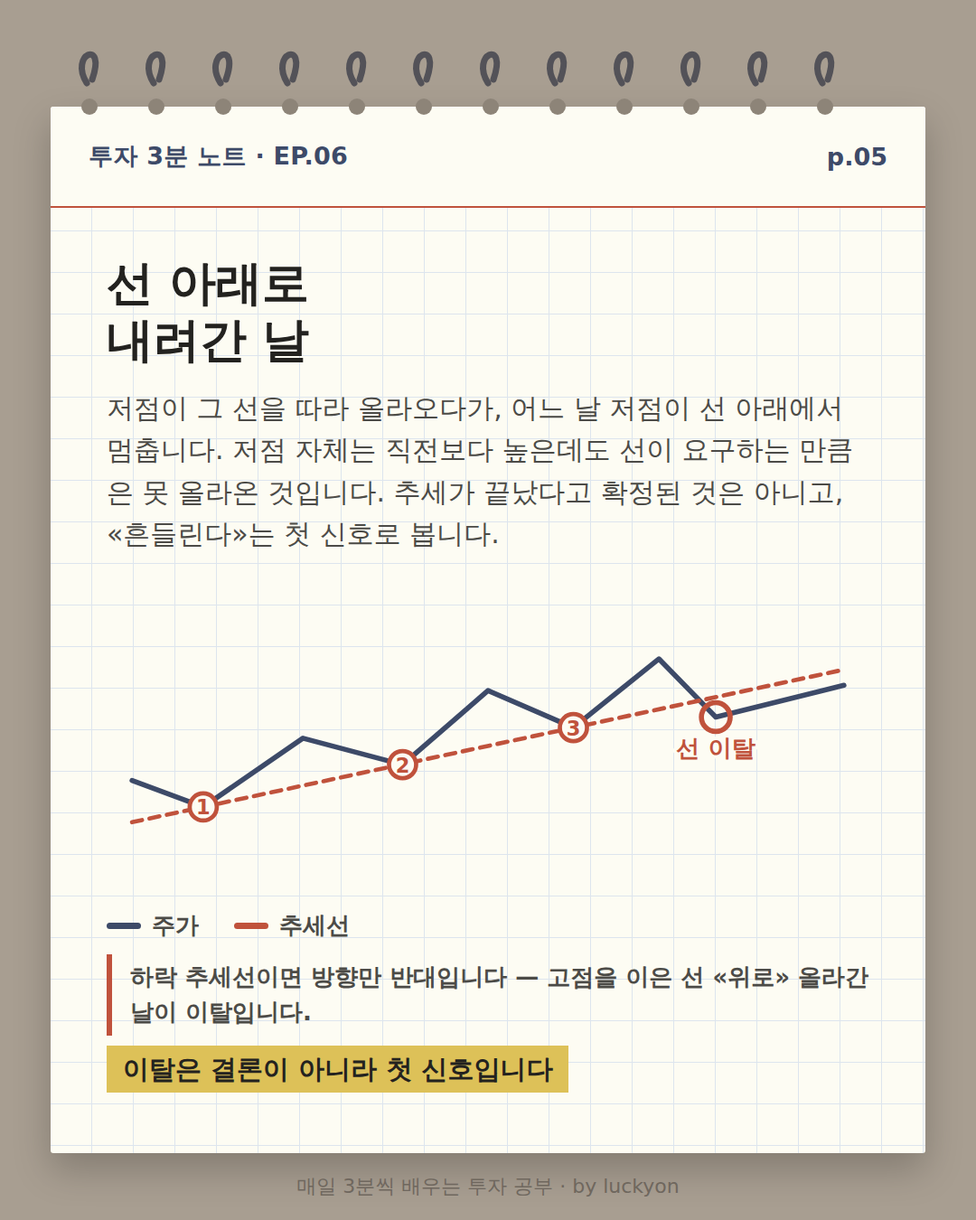
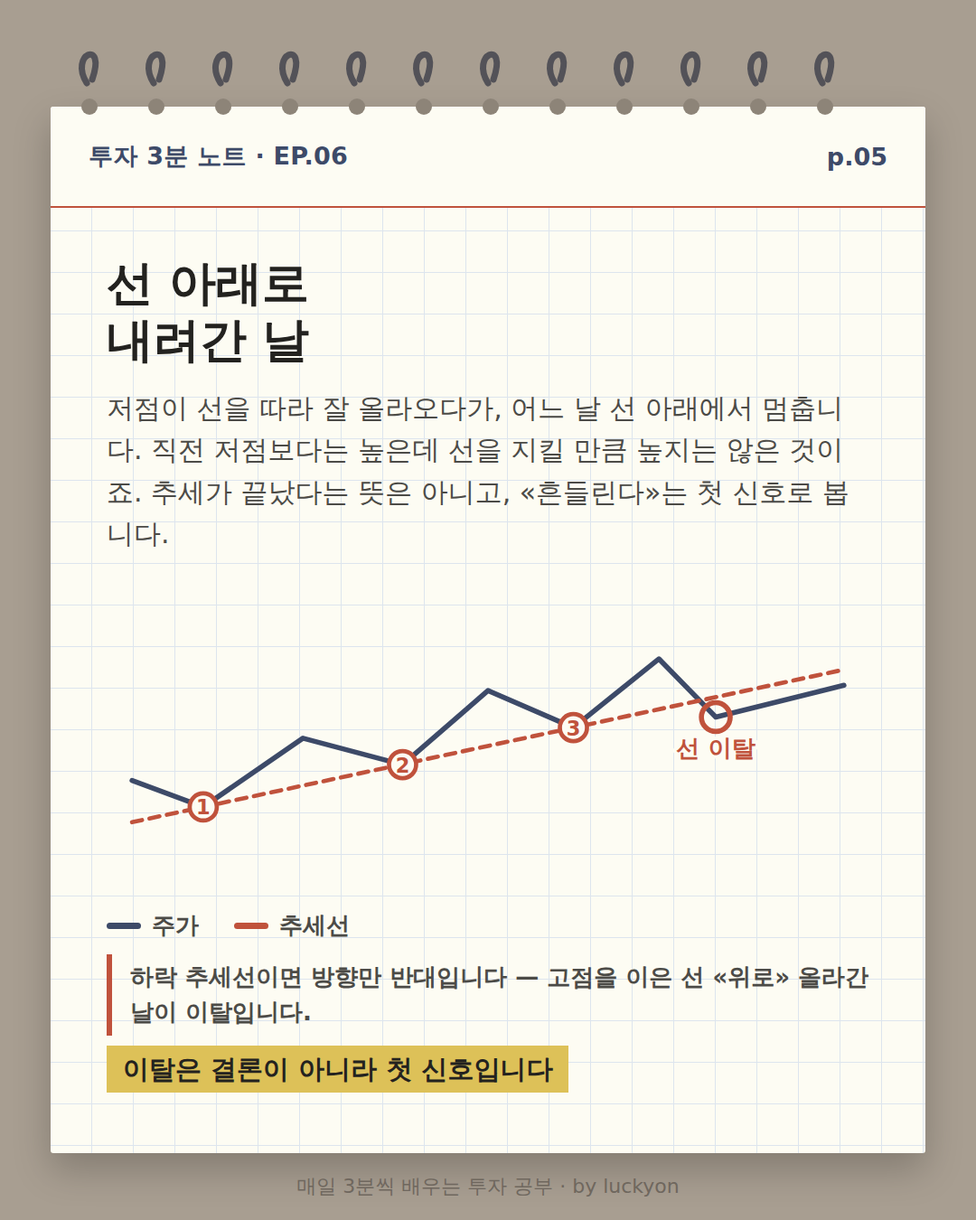
chart-notes: ep06 한국어 원고 전면 정리 — 번역체 걷어내기
사용자 지적 — «한국어가 너무 어색하다. 외국인이 작성한 것 같다.» 맞다.
카드 8장·캡션·대체텍스트 전부를 다섯 패턴 기준으로 다시 썼다.

- 비문: 「세 번째가 «추세»로 만듭니다」(목적어 없음)
  → 「세 번째가 있어야 «추세»입니다」
- 피동: 「저점 두 개면 선은 그어집니다」 → 「저점 두 개를 이으면 선이 됩니다」
- 직역 술어: 「선 하나가 …말해 줍니다」 → 「선 하나로 …봅니다」 /
  「선이 남기는 것은」 → 「그래서 알 수 있는 건」 /
  「선이 요구하는 만큼」 → 「선을 지킬 만큼」 /
  「가격은 그 선을 아래에서 만납니다」 → 「가격이 아래에서 그 선에 부딪힙니다」
- 영어 어순: 「세 번째로 그 선에서 멈추는지 봅니다」
  → 「가격이 세 번째로도 그 자리에서 멈추는지 지켜봅니다」
- 한자어·문어체: 「요구가 클수록 지켜지기 어렵습니다」 → 「바라는 게 클수록…」 /
  「갈리는 것은 …인가 아닌가입니다」 → 「다른 점은 …냐 아니냐입니다」 /
  제목 「가로선과 무엇이 다른가」 → 「가로선과 뭐가 다를까요」

영문은 손대지 않았다(사용자가 영어는 판단 보류). 절차와 교훈은 main 의
3-1-1 및 _knowledge/추세선.md §5 ④ 에 남겼다.

Claude-Session: https://claude.ai/code/session_01DwdXeftpno199BA7Z1hCtm

Changed region(s): [[0.0917, 0.3111, 0.8861, 0.4667]]

diff --git a/cards/chart-notes/2026-09-06-ep06/preview.html b/cards/chart-notes/2026-09-06-ep06/preview.html
@@ -62,39 +62,39 @@
     <h2>🇰🇷 한국어 — 8장</h2>
     <div class="cards">
     <figure>
-      <img src="ko/card1.png" alt="표지. 크림색 모눈 노트 위에 캔들 여덟 개가 왼쪽 아래에서 오른쪽 위로 계단처럼 올라간다. 그 캔들들의 아래꼬리 끝을 따라 붉은 점선 하나가 비스듬히 그어져 있고, 여러 캔들의 저가가 그 선에 닿아 있다. 점선의 오른쪽 끝을 가리키며 '저점이 점점 올라왔다 — 그 자리를 이은 선'이라는 주석이 붙어 있다. 큰 제목 '기울어진 선 하나가 «움직이는 속도»를 말해 줍니다', 부제 'EP.06 · 추세선', 노란 형광펜 칩 '저장하고 넘겨보세요'." loading="lazy">
-      <figcaption><b>p.01</b> 표지. 크림색 모눈 노트 위에 캔들 여덟 개가 왼쪽 아래에서 오른쪽 위로 계단처럼 올라간다. 그 캔들들의 아래꼬리 끝을 따라 붉은 점선 하나가 비스듬히 그어져 있고, 여러 캔들의 저가가 그 선에 닿아 있다. 점선의 오른쪽 끝을 가리키며 '저점이 점점 올라왔다 — 그 자리를 이은 선'이라는 주석이 붙어 있다. 큰 제목 '기울어진 선 하나가 «움직이는 속도»를 말해 줍니다', 부제 'EP.06 · 추세선', 노란 형광펜 칩 '저장하고 넘겨보세요'.</figcaption>
+      <img src="ko/card1.png" alt="표지. 크림색 모눈 노트 위에 캔들 여덟 개가 왼쪽 아래에서 오른쪽 위로 계단처럼 올라간다. 그 캔들들의 아래꼬리 끝을 따라 붉은 점선 하나가 비스듬히 그어져 있고, 여러 캔들의 저가가 그 선에 닿아 있다. 점선의 오른쪽 끝을 가리키며 '저점이 점점 올라왔다 — 그 자리를 이은 선'이라는 주석이 붙어 있다. 큰 제목 '기울어진 선 하나로 방향만이 아니라 «속도»까지 봅니다', 부제 'EP.06 · 추세선', 노란 형광펜 칩 '저장하고 넘겨보세요'." loading="lazy">
+      <figcaption><b>p.01</b> 표지. 크림색 모눈 노트 위에 캔들 여덟 개가 왼쪽 아래에서 오른쪽 위로 계단처럼 올라간다. 그 캔들들의 아래꼬리 끝을 따라 붉은 점선 하나가 비스듬히 그어져 있고, 여러 캔들의 저가가 그 선에 닿아 있다. 점선의 오른쪽 끝을 가리키며 '저점이 점점 올라왔다 — 그 자리를 이은 선'이라는 주석이 붙어 있다. 큰 제목 '기울어진 선 하나로 방향만이 아니라 «속도»까지 봅니다', 부제 'EP.06 · 추세선', 노란 형광펜 칩 '저장하고 넘겨보세요'.</figcaption>
     </figure>
     <figure>
       <img src="ko/card2.png" alt="도입 카드. 제목 '차트에 비스듬한 선, 어떻게 그은 걸까요?' 아래에 '가로선은 높이가 하나뿐이라 찾기 쉽지만 이 선은 닿는 자리마다 값이 다르다'는 본문이 있다. 그림은 회색 꺾은선이 왼쪽 아래에서 오른쪽 위로 오르내리며 올라가고, 그 저점들을 따라 붉은 점선 한 줄이 비스듬히 가로지른다. 점선이 끝나는 오른쪽 바깥에 붉은 물음표 세 개가 찍혀 «이 선이 어떻게 그어진 것이냐»고 묻는다. 맨 아래 '이번 편은 그 기울기가 무엇을 뜻하는지 봅니다'." loading="lazy">
       <figcaption><b>p.02</b> 도입 카드. 제목 '차트에 비스듬한 선, 어떻게 그은 걸까요?' 아래에 '가로선은 높이가 하나뿐이라 찾기 쉽지만 이 선은 닿는 자리마다 값이 다르다'는 본문이 있다. 그림은 회색 꺾은선이 왼쪽 아래에서 오른쪽 위로 오르내리며 올라가고, 그 저점들을 따라 붉은 점선 한 줄이 비스듬히 가로지른다. 점선이 끝나는 오른쪽 바깥에 붉은 물음표 세 개가 찍혀 «이 선이 어떻게 그어진 것이냐»고 묻는다. 맨 아래 '이번 편은 그 기울기가 무엇을 뜻하는지 봅니다'.</figcaption>
     </figure>
     <figure>
-      <img src="ko/card3.png" alt="원리 카드. 감청색 꺾은선이 오르내리며 오른쪽 위로 올라가고, 그 저점 세 개를 지나는 붉은 점선이 왼쪽 아래에서 오른쪽 위로 비스듬히 그어져 있다. 선이 그 점선에 닿은 자리마다 붉은 동그라미 안에 번호가 매겨져 있다 — 왼쪽부터 ①②③. 본문은 되돌아선 저점 중 점점 높아지는 두 개를 골라 잇고, 그 선을 오른쪽으로 늘려 세 번째로 그 선에서 멈추는지 본다고 설명한다. 아래 범례에 감청색 '주가'와 붉은색 '추세선'. 그 아래 붉은 세로줄이 그어진 문단에 '거꾸로도 똑같습니다. 점점 «낮아지는» 고점 두 개를 이으면 하락 추세선이 되고, 가격은 그 선을 아래에서 만납니다. 잇는 자리가 저점에서 고점으로, 오름이 내림으로 바뀔 뿐입니다.' 노란 형광펜 마무리 문구는 '두 점이면 선, 세 번째부터 «추세»입니다'." loading="lazy">
-      <figcaption><b>p.03</b> 원리 카드. 감청색 꺾은선이 오르내리며 오른쪽 위로 올라가고, 그 저점 세 개를 지나는 붉은 점선이 왼쪽 아래에서 오른쪽 위로 비스듬히 그어져 있다. 선이 그 점선에 닿은 자리마다 붉은 동그라미 안에 번호가 매겨져 있다 — 왼쪽부터 ①②③. 본문은 되돌아선 저점 중 점점 높아지는 두 개를 골라 잇고, 그 선을 오른쪽으로 늘려 세 번째로 그 선에서 멈추는지 본다고 설명한다. 아래 범례에 감청색 '주가'와 붉은색 '추세선'. 그 아래 붉은 세로줄이 그어진 문단에 '거꾸로도 똑같습니다. 점점 «낮아지는» 고점 두 개를 이으면 하락 추세선이 되고, 가격은 그 선을 아래에서 만납니다. 잇는 자리가 저점에서 고점으로, 오름이 내림으로 바뀔 뿐입니다.' 노란 형광펜 마무리 문구는 '두 점이면 선, 세 번째부터 «추세»입니다'.</figcaption>
+      <img src="ko/card3.png" alt="원리 카드. 감청색 꺾은선이 오르내리며 오른쪽 위로 올라가고, 그 저점 세 개를 지나는 붉은 점선이 왼쪽 아래에서 오른쪽 위로 비스듬히 그어져 있다. 선이 그 점선에 닿은 자리마다 붉은 동그라미 안에 번호가 매겨져 있다 — 왼쪽부터 ①②③. 본문은 가격이 방향을 튼 저점 가운데 점점 높아지는 두 개를 골라 잇고, 그 선을 오른쪽으로 늘려 놓은 뒤 가격이 세 번째로도 그 자리에서 멈추는지 지켜본다고 설명한다. 아래 범례에 감청색 '주가'와 붉은색 '추세선'. 그 아래 붉은 세로줄이 그어진 문단에 '거꾸로도 똑같습니다. 점점 «낮아지는» 고점 두 개를 이으면 하락 추세선이 되고, 이때는 가격이 아래에서 그 선에 부딪힙니다. 잇는 자리가 저점에서 고점으로 바뀔 뿐, 방법은 하나입니다.' 노란 형광펜 마무리 문구는 '두 점이면 선, 세 번째부터 «추세»입니다'." loading="lazy">
+      <figcaption><b>p.03</b> 원리 카드. 감청색 꺾은선이 오르내리며 오른쪽 위로 올라가고, 그 저점 세 개를 지나는 붉은 점선이 왼쪽 아래에서 오른쪽 위로 비스듬히 그어져 있다. 선이 그 점선에 닿은 자리마다 붉은 동그라미 안에 번호가 매겨져 있다 — 왼쪽부터 ①②③. 본문은 가격이 방향을 튼 저점 가운데 점점 높아지는 두 개를 골라 잇고, 그 선을 오른쪽으로 늘려 놓은 뒤 가격이 세 번째로도 그 자리에서 멈추는지 지켜본다고 설명한다. 아래 범례에 감청색 '주가'와 붉은색 '추세선'. 그 아래 붉은 세로줄이 그어진 문단에 '거꾸로도 똑같습니다. 점점 «낮아지는» 고점 두 개를 이으면 하락 추세선이 되고, 이때는 가격이 아래에서 그 선에 부딪힙니다. 잇는 자리가 저점에서 고점으로 바뀔 뿐, 방법은 하나입니다.' 노란 형광펜 마무리 문구는 '두 점이면 선, 세 번째부터 «추세»입니다'.</figcaption>
     </figure>
     <figure>
-      <img src="ko/card4.png" alt="비교 카드 '가로선과 무엇이 다른가'. 왼쪽에 감청색으로 칠해진 '추세선 · 기울어진 선', 오른쪽에 회색 '지지선 · 가로선' 머리칸이 있고 아래로 세 줄이 맞대어 있다. '잇는 점들은' — 점점 높아지거나 낮아진다 / 같은 높이다. '그래서 선이 남기는 것은' — 그 점들이 옮겨 가는 «속도» / 멈추는 «높이». '선을 벗어나면' — 지켜 오던 흐름이 깨진 것 / 그 높이가 뚫린 것. 노란 형광펜 마무리 문구는 '같은 차트인데 추세선은 사람마다 다릅니다'." loading="lazy">
-      <figcaption><b>p.04</b> 비교 카드 '가로선과 무엇이 다른가'. 왼쪽에 감청색으로 칠해진 '추세선 · 기울어진 선', 오른쪽에 회색 '지지선 · 가로선' 머리칸이 있고 아래로 세 줄이 맞대어 있다. '잇는 점들은' — 점점 높아지거나 낮아진다 / 같은 높이다. '그래서 선이 남기는 것은' — 그 점들이 옮겨 가는 «속도» / 멈추는 «높이». '선을 벗어나면' — 지켜 오던 흐름이 깨진 것 / 그 높이가 뚫린 것. 노란 형광펜 마무리 문구는 '같은 차트인데 추세선은 사람마다 다릅니다'.</figcaption>
+      <img src="ko/card4.png" alt="비교 카드 '가로선과 뭐가 다를까요'. 왼쪽에 감청색으로 칠해진 '추세선 · 기울어진 선', 오른쪽에 회색 '지지선 · 가로선' 머리칸이 있고 아래로 세 줄이 맞대어 있다. '이을 점들은' — 점점 높아지거나 낮아진다 / 같은 높이다. '그래서 알 수 있는 건' — 점들이 오르내리는 «속도» / 가격이 멈추는 «높이». '선을 벗어나면' — 지켜 오던 흐름이 깨진 것 / 그 높이가 뚫린 것. 노란 형광펜 마무리 문구는 '같은 차트인데 추세선은 사람마다 다릅니다'." loading="lazy">
+      <figcaption><b>p.04</b> 비교 카드 '가로선과 뭐가 다를까요'. 왼쪽에 감청색으로 칠해진 '추세선 · 기울어진 선', 오른쪽에 회색 '지지선 · 가로선' 머리칸이 있고 아래로 세 줄이 맞대어 있다. '이을 점들은' — 점점 높아지거나 낮아진다 / 같은 높이다. '그래서 알 수 있는 건' — 점들이 오르내리는 «속도» / 가격이 멈추는 «높이». '선을 벗어나면' — 지켜 오던 흐름이 깨진 것 / 그 높이가 뚫린 것. 노란 형광펜 마무리 문구는 '같은 차트인데 추세선은 사람마다 다릅니다'.</figcaption>
     </figure>
     <figure>
-      <img src="ko/card5.png" alt="추세 이탈 카드. 감청색 꺾은선이 붉은 점선 추세선을 따라 올라가며 세 번 그 선에서 멈추고, 멈춘 자리마다 붉은 동그라미 ①②③이 붙어 있다. 그러다 오른쪽에서 선이 꺾여 내려오면서 이번에는 점선 «아래»에서 멈추는데, 그 저점은 직전 ③보다는 높은 자리다 — 저점 자체는 올라갔지만 점선이 요구하는 높이에는 못 미친 모양이다. 그 지점에 번호 없는 붉은 동그라미가 있고 그 아래에 '선 이탈' 라벨이 붙어 있다. 이후 선은 점선 아래에 머문 채 오른쪽 위로 이어진다. 본문은 저점 자체는 직전보다 높은데도 선이 요구하는 만큼은 못 올라온 것이며, 추세가 끝났다고 확정된 것은 아니고 «흔들린다»는 첫 신호로 본다고 설명한다. 아래 붉은 세로줄 문단에 '하락 추세선이면 방향만 반대입니다 — 고점을 이은 선 «위로» 올라간 날이 이탈입니다.' 노란 형광펜 마무리 문구는 '이탈은 결론이 아니라 첫 신호입니다'." loading="lazy">
-      <figcaption><b>p.05</b> 추세 이탈 카드. 감청색 꺾은선이 붉은 점선 추세선을 따라 올라가며 세 번 그 선에서 멈추고, 멈춘 자리마다 붉은 동그라미 ①②③이 붙어 있다. 그러다 오른쪽에서 선이 꺾여 내려오면서 이번에는 점선 «아래»에서 멈추는데, 그 저점은 직전 ③보다는 높은 자리다 — 저점 자체는 올라갔지만 점선이 요구하는 높이에는 못 미친 모양이다. 그 지점에 번호 없는 붉은 동그라미가 있고 그 아래에 '선 이탈' 라벨이 붙어 있다. 이후 선은 점선 아래에 머문 채 오른쪽 위로 이어진다. 본문은 저점 자체는 직전보다 높은데도 선이 요구하는 만큼은 못 올라온 것이며, 추세가 끝났다고 확정된 것은 아니고 «흔들린다»는 첫 신호로 본다고 설명한다. 아래 붉은 세로줄 문단에 '하락 추세선이면 방향만 반대입니다 — 고점을 이은 선 «위로» 올라간 날이 이탈입니다.' 노란 형광펜 마무리 문구는 '이탈은 결론이 아니라 첫 신호입니다'.</figcaption>
+      <img src="ko/card5.png" alt="추세 이탈 카드. 감청색 꺾은선이 붉은 점선 추세선을 따라 올라가며 세 번 그 선에서 멈추고, 멈춘 자리마다 붉은 동그라미 ①②③이 붙어 있다. 그러다 오른쪽에서 선이 꺾여 내려오면서 이번에는 점선 «아래»에서 멈추는데, 그 저점은 직전 ③보다는 높은 자리다 — 저점은 올라갔지만 점선을 지킬 만큼은 못 올라온 모양이다. 그 지점에 번호 없는 붉은 동그라미가 있고 그 아래에 '선 이탈' 라벨이 붙어 있다. 이후 선은 점선 아래에 머문 채 오른쪽 위로 이어진다. 본문은 직전 저점보다는 높지만 선을 지킬 만큼 높지는 않았고, 추세가 끝났다는 뜻은 아니며 «흔들린다»는 첫 신호로 본다고 설명한다. 아래 붉은 세로줄 문단에 '하락 추세선이면 방향만 반대입니다 — 고점을 이은 선 «위로» 올라간 날이 이탈입니다.' 노란 형광펜 마무리 문구는 '이탈은 결론이 아니라 첫 신호입니다'." loading="lazy">
+      <figcaption><b>p.05</b> 추세 이탈 카드. 감청색 꺾은선이 붉은 점선 추세선을 따라 올라가며 세 번 그 선에서 멈추고, 멈춘 자리마다 붉은 동그라미 ①②③이 붙어 있다. 그러다 오른쪽에서 선이 꺾여 내려오면서 이번에는 점선 «아래»에서 멈추는데, 그 저점은 직전 ③보다는 높은 자리다 — 저점은 올라갔지만 점선을 지킬 만큼은 못 올라온 모양이다. 그 지점에 번호 없는 붉은 동그라미가 있고 그 아래에 '선 이탈' 라벨이 붙어 있다. 이후 선은 점선 아래에 머문 채 오른쪽 위로 이어진다. 본문은 직전 저점보다는 높지만 선을 지킬 만큼 높지는 않았고, 추세가 끝났다는 뜻은 아니며 «흔들린다»는 첫 신호로 본다고 설명한다. 아래 붉은 세로줄 문단에 '하락 추세선이면 방향만 반대입니다 — 고점을 이은 선 «위로» 올라간 날이 이탈입니다.' 노란 형광펜 마무리 문구는 '이탈은 결론이 아니라 첫 신호입니다'.</figcaption>
     </figure>
     <figure>
       <img src="ko/card6.png" alt="실제 사례 카드. 삼성전자 2026년 7월 30일부터 9월 4일까지 스물여섯 개의 일봉과 그 아래 거래량 막대가 두 칸으로 그려져 있다. 7월 30일 저가에서 시작해 8월 28일까지 오른쪽 위로 올라가는 붉은 점선 추세선이 그어져 있고 그 아래에 '추세선' 라벨이 붙어 있다. 붉은 동그라미 번호가 세 곳에 있다 — ①은 7월 30일 저가 20만 2,000원, ②는 8월 11일 저가 22만 7,500원, ③은 8월 24일 저가 25만 5,000원 자리다. 8월 24일까지는 어느 날의 저가도 점선 아래로 내려가지 않는다. 그 뒤 8월 25·26·27일은 아래꼬리 끝만 점선 아래로 내려갔다가 몸통은 위에서 끝나고, 8월 28일 봉에는 종가 25만 7,000원 자리에 번호 없는 붉은 동그라미와 '종가 이탈' 라벨이 붙어 있다. 점선은 거기서 끝나고, 오른쪽에 남은 8월 31일부터 9월 4일까지 다섯 봉은 더 내려가지 않고 25만~26만원 사이를 옆으로 오간다. x축에는 7/30, 8/3, 8/6, 8/11, 8/14, 8/19, 8/24, 8/28, 9/4 가 찍혀 있다. 마무리 문구 '선은 깨졌지만 값은 떨어지지 않았습니다'." loading="lazy">
       <figcaption><b>p.06</b> 실제 사례 카드. 삼성전자 2026년 7월 30일부터 9월 4일까지 스물여섯 개의 일봉과 그 아래 거래량 막대가 두 칸으로 그려져 있다. 7월 30일 저가에서 시작해 8월 28일까지 오른쪽 위로 올라가는 붉은 점선 추세선이 그어져 있고 그 아래에 '추세선' 라벨이 붙어 있다. 붉은 동그라미 번호가 세 곳에 있다 — ①은 7월 30일 저가 20만 2,000원, ②는 8월 11일 저가 22만 7,500원, ③은 8월 24일 저가 25만 5,000원 자리다. 8월 24일까지는 어느 날의 저가도 점선 아래로 내려가지 않는다. 그 뒤 8월 25·26·27일은 아래꼬리 끝만 점선 아래로 내려갔다가 몸통은 위에서 끝나고, 8월 28일 봉에는 종가 25만 7,000원 자리에 번호 없는 붉은 동그라미와 '종가 이탈' 라벨이 붙어 있다. 점선은 거기서 끝나고, 오른쪽에 남은 8월 31일부터 9월 4일까지 다섯 봉은 더 내려가지 않고 25만~26만원 사이를 옆으로 오간다. x축에는 7/30, 8/3, 8/6, 8/11, 8/14, 8/19, 8/24, 8/28, 9/4 가 찍혀 있다. 마무리 문구 '선은 깨졌지만 값은 떨어지지 않았습니다'.</figcaption>
     </figure>
     <figure>
-      <img src="ko/card7.png" alt="실수 카드. 번호 붙은 세 항목. 1. 선부터 긋고 저점을 고른다 — 그럴듯한 각도를 먼저 정하고 거기 걸리는 저점만 고르면 시장의 기록이 아니라 내가 그린 그림이 된다. 2. 꼬리 하나로 이탈을 판정한다 — 장중에 저가가 잠깐 선 아래를 찍었다가 다시 올라온 날과 종가까지 선 아래에서 끝난 날은 다르다. 3. 가파를수록 좋은 선이라 본다 — 가파른 선은 그 점들이 매번 그만큼 더 움직여야 유지되므로 요구가 클수록 지켜지기 어렵다. 아래 붉은 테두리 상자에 '가장 흔한 오해 — 이탈은 «오르던 흐름이 흔들린다»는 첫 신호이지, 추세가 끝났다거나 이제 내려간다는 확정이 아닙니다. 가격은 다시 추세를 이어 갈 수도, 옆으로 갈 수도, 돌아설 수도 있습니다'." loading="lazy">
-      <figcaption><b>p.07</b> 실수 카드. 번호 붙은 세 항목. 1. 선부터 긋고 저점을 고른다 — 그럴듯한 각도를 먼저 정하고 거기 걸리는 저점만 고르면 시장의 기록이 아니라 내가 그린 그림이 된다. 2. 꼬리 하나로 이탈을 판정한다 — 장중에 저가가 잠깐 선 아래를 찍었다가 다시 올라온 날과 종가까지 선 아래에서 끝난 날은 다르다. 3. 가파를수록 좋은 선이라 본다 — 가파른 선은 그 점들이 매번 그만큼 더 움직여야 유지되므로 요구가 클수록 지켜지기 어렵다. 아래 붉은 테두리 상자에 '가장 흔한 오해 — 이탈은 «오르던 흐름이 흔들린다»는 첫 신호이지, 추세가 끝났다거나 이제 내려간다는 확정이 아닙니다. 가격은 다시 추세를 이어 갈 수도, 옆으로 갈 수도, 돌아설 수도 있습니다'.</figcaption>
+      <img src="ko/card7.png" alt="실수 카드. 번호 붙은 세 항목. 1. 선부터 긋고 저점을 고른다 — 그럴듯한 각도를 먼저 정하고 거기 걸리는 저점만 고르면 시장의 기록이 아니라 내가 그린 그림이 된다. 2. 꼬리 하나로 이탈을 판정한다 — 장중에 저가가 잠깐 선 아래를 찍었다가 다시 올라온 날과 종가까지 선 아래에서 끝난 날은 다르다. 3. 가파를수록 좋은 선이라 본다 — 가파른 선일수록 다음 점이 그만큼 더 움직여 줘야 버티므로, 바라는 게 클수록 지켜지기 어렵다. 아래 붉은 테두리 상자에 '가장 흔한 오해 — 이탈은 «오르던 흐름이 흔들린다»는 첫 신호일 뿐, 추세가 끝났다거나 이제 내려간다는 뜻이 아닙니다. 거기서 가격은 다시 올라갈 수도, 옆으로 갈 수도, 돌아설 수도 있습니다'." loading="lazy">
+      <figcaption><b>p.07</b> 실수 카드. 번호 붙은 세 항목. 1. 선부터 긋고 저점을 고른다 — 그럴듯한 각도를 먼저 정하고 거기 걸리는 저점만 고르면 시장의 기록이 아니라 내가 그린 그림이 된다. 2. 꼬리 하나로 이탈을 판정한다 — 장중에 저가가 잠깐 선 아래를 찍었다가 다시 올라온 날과 종가까지 선 아래에서 끝난 날은 다르다. 3. 가파를수록 좋은 선이라 본다 — 가파른 선일수록 다음 점이 그만큼 더 움직여 줘야 버티므로, 바라는 게 클수록 지켜지기 어렵다. 아래 붉은 테두리 상자에 '가장 흔한 오해 — 이탈은 «오르던 흐름이 흔들린다»는 첫 신호일 뿐, 추세가 끝났다거나 이제 내려간다는 뜻이 아닙니다. 거기서 가격은 다시 올라갈 수도, 옆으로 갈 수도, 돌아설 수도 있습니다'.</figcaption>
     </figure>
     <figure>
-      <img src="ko/card8.png" alt="요약 카드. 체크박스 세 줄: 점 두 개면 그어지고, 세 번째가 «추세»로 만듭니다 / 기울기는 그 점들이 옮겨 가는 «속도»입니다 / 이탈은 결론이 아니라 첫 신호입니다. 노란 형광펜 칩 두 개로 저장 유도와 해시태그, 그 아래 '다음 편 ▶ 갭 상승·갭 하락', 맨 아래에 교육 목적 고지." loading="lazy">
-      <figcaption><b>p.08</b> 요약 카드. 체크박스 세 줄: 점 두 개면 그어지고, 세 번째가 «추세»로 만듭니다 / 기울기는 그 점들이 옮겨 가는 «속도»입니다 / 이탈은 결론이 아니라 첫 신호입니다. 노란 형광펜 칩 두 개로 저장 유도와 해시태그, 그 아래 '다음 편 ▶ 갭 상승·갭 하락', 맨 아래에 교육 목적 고지.</figcaption>
+      <img src="ko/card8.png" alt="요약 카드. 체크박스 세 줄: 점 두 개면 선이고, 세 번째가 있어야 «추세»입니다 / 기울기가 곧 그 점들이 오르내리는 «속도»입니다 / 이탈은 결론이 아니라 첫 신호입니다. 노란 형광펜 칩 두 개로 저장 유도와 해시태그, 그 아래 '다음 편 ▶ 갭 상승·갭 하락', 맨 아래에 교육 목적 고지." loading="lazy">
+      <figcaption><b>p.08</b> 요약 카드. 체크박스 세 줄: 점 두 개면 선이고, 세 번째가 있어야 «추세»입니다 / 기울기가 곧 그 점들이 오르내리는 «속도»입니다 / 이탈은 결론이 아니라 첫 신호입니다. 노란 형광펜 칩 두 개로 저장 유도와 해시태그, 그 아래 '다음 편 ▶ 갭 상승·갭 하락', 맨 아래에 교육 목적 고지.</figcaption>
     </figure></div>
-    <h3>캡션 (1195자)</h3>
-    <div class="cap">차트에 비스듬하게 그어진 선, 대충 눈대중으로 그은 게 아닙니다.<br><br>가격이 되돌아선 저점 중에서 «점점 높아지는» 두 개를 골라 이으면 그게 추세선입니다. 두 점이면 선은 그어지고, 세 번째로 그 선에서 멈추는 날이 와야 «추세»가 됩니다.<br><br>이번 편에서 꼭 가져가셨으면 하는 것 하나. 가로선(지지선)과 추세선은 재는 것이 다릅니다. 가로선은 가격이 멈추는 «높이»를 남기고, 추세선의 기울기는 그 점들이 옮겨 가는 «속도»를 남깁니다. 그리고 가격이 그 선을 벗어난 날, 저점들이 지켜 오던 규칙이 처음으로 어긋납니다. 다만 그것으로 추세가 끝났다거나 이제 반대로 간다고 확정되지는 않습니다 — 되돌림이었다가 추세가 그대로 이어지는 경우도 있습니다. «흔들린다»는 첫 신호까지가 이 선이 말해 주는 전부이고, 이걸 «이제 떨어진다»로 읽는 것이 가장 흔한 오해입니다.<br><br>실제 삼성전자 일봉으로도 확인했습니다. 2026년 7월 30일 저가 20만 2,000원과 8월 11일 저가 22만 7,500원을 이어 오른쪽으로 늘렸더니, 8거래일 뒤인 8월 24일 저가 25만 5,000원이 그 선(25만 3,000원) 바로 위에서 멈췄습니다. 그리고 이 선이 어떻게 끝났는지도 함께 실었습니다 — 8월 25·26·27일은 꼬리만 선 아래를 찍고 종가는 위였지만, 8월 28일 종가 25만 7,000원이 선(26만 5,750원) 아래에서 끝나며 이탈이 확정됐습니다. 꼬리와 종가를 갈라 보는 이유가 여기 있습니다. 그리고 그 뒤 8월 31일부터 9월 4일까지, 값은 더 내려가지 않고 옆으로 갔습니다 — 선이 깨진 것과 값이 떨어지는 것은 다릅니다.<br><br>카드의 예시는 저점을 잇는 상승 추세선이지만, 거꾸로도 똑같습니다. 점점 «낮아지는» 고점 두 개를 이으면 하락 추세선이 되고, 가격은 그 선을 아래에서 만납니다. 이때는 선 «위로» 올라간 날이 이탈입니다. 잇는 자리가 저점에서 고점으로, 오름이 내림으로 바뀔 뿐 방법은 하나입니다.<br><br>기억할 세 가지<br>① 점 두 개면 그어지고, 세 번째가 «추세»로 만든다<br>② 기울기는 그 점들이 옮겨 가는 속도다<br>③ 이탈은 결론이 아니라 «흔들린다»는 첫 신호다<br><br>저장해 두고 차트 볼 때 꺼내 보세요 📌<br><br>#추세선 #추세이탈 #지지선 #주식차트 #주식공부 #주식초보 #차트분석 #기술적분석 #삼성전자 #투자3분노트<br><br>다음 편 ▶ 갭 상승·갭 하락<br><br>※ 본 콘텐츠는 교육 목적이며 투자 권유가 아닙니다.</div>
+    <h3>캡션 (1187자)</h3>
+    <div class="cap">차트에 비스듬하게 그어진 선, 대충 눈대중으로 그은 게 아닙니다.<br><br>가격이 방향을 튼 저점들 가운데 «점점 높아지는» 두 개를 골라 이으면 그게 추세선입니다. 두 점이면 선은 되지만, 세 번째로도 그 자리에서 멈추는 날이 와야 «추세»입니다.<br><br>이번 편에서 꼭 가져가셨으면 하는 것 하나. 가로선(지지선)과 추세선은 재는 것이 다릅니다. 가로선으로는 가격이 멈추는 «높이»를 알고, 추세선의 기울기로는 그 점들이 오르내리는 «속도»를 압니다. 그리고 가격이 그 선을 벗어난 날, 저점들이 지켜 오던 규칙이 처음으로 어긋납니다. 다만 그것으로 추세가 끝났다거나 이제 반대로 간다고 정해지지는 않습니다 — 잠깐 되돌렸다가 추세가 그대로 이어지기도 합니다. «흔들린다»는 첫 신호까지가 이 선으로 알 수 있는 전부이고, 이걸 «이제 떨어진다»로 읽는 것이 가장 흔한 오해입니다.<br><br>실제 삼성전자 일봉으로도 확인했습니다. 2026년 7월 30일 저가 20만 2,000원과 8월 11일 저가 22만 7,500원을 이어 오른쪽으로 늘려 봤더니, 8거래일 뒤인 8월 24일 저가 25만 5,000원이 그 선(25만 3,000원) 바로 위에서 멈췄습니다. 이 선이 어떻게 끝났는지도 같이 실었습니다 — 8월 25·26·27일은 꼬리만 선 아래를 찍고 종가는 위였지만, 8월 28일에는 종가 25만 7,000원이 선(26만 5,750원) 아래에서 끝났습니다. 꼬리와 종가를 갈라 보는 이유가 여기 있습니다. 그리고 그 뒤 8월 31일부터 9월 4일까지, 값은 더 내려가지 않고 옆으로만 갔습니다 — 선이 깨지는 것과 값이 떨어지는 것은 다릅니다.<br><br>카드에 실은 예시는 저점을 잇는 상승 추세선이지만, 거꾸로도 똑같습니다. 점점 «낮아지는» 고점 두 개를 이으면 하락 추세선이고, 이때는 가격이 아래에서 그 선에 부딪힙니다. 이탈도 반대로, 선 «위로» 올라간 날입니다. 잇는 자리가 저점에서 고점으로 바뀔 뿐 방법은 하나입니다.<br><br>기억할 세 가지<br>① 점 두 개면 선이고, 세 번째가 있어야 «추세»다<br>② 기울기가 곧 그 점들이 오르내리는 속도다<br>③ 이탈은 결론이 아니라 «흔들린다»는 첫 신호다<br><br>저장해 두고 차트 볼 때 꺼내 보세요 📌<br><br>#추세선 #추세이탈 #지지선 #주식차트 #주식공부 #주식초보 #차트분석 #기술적분석 #삼성전자 #투자3분노트<br><br>다음 편 ▶ 갭 상승·갭 하락<br><br>※ 본 콘텐츠는 교육 목적이며 투자 권유가 아닙니다.</div>
 
     <h2>🇺🇸 English — 8장</h2>
     <div class="cards">

diff --git a/content/chart-notes/_knowledge/추세선.md b/content/chart-notes/_knowledge/추세선.md
@@ -56,3 +56,10 @@
 - **2026-09-06 ③** 「p.04 마무리(«어제 값으로는 지켜지지 않습니다»)가 무슨 말인지, 왜 필요한지 모르겠다.」
   → 검증 항목(«마무리가 표를 되풀이한다»)을 통과시키려고 그럴듯한 한 줄을 지어낸 것.
   **규칙을 만족시키려고 문장을 발명하면 반드시 이렇게 된다.** §2 의 주관성으로 교체.
+- **2026-09-06 ④** 「한국어가 너무 어색하다. 외국인이 작성한 것 같다.」
+  → 한국어와 영어를 사실상 «나란히» 쓴 탓이다. 개념을 영어 구조로 잡고 한국어를 거기 맞추면 문장이
+  한국어로 서지 않는다. 실제로 목적어 없는 비문(「세 번째가 «추세»로 만듭니다」), 피동 남용
+  (「선은 그어집니다」), 직역 술어(「선이 말해 줍니다 / 남깁니다 / 요구하는」, 「가격은 그 선을 만납니다」),
+  영어 어순(「세 번째로 그 선에서 멈추는지 봅니다」), 딱딱한 한자어(「요구가 클수록 지켜지기 어렵습니다」)가
+  카드 전체에 깔려 있었다. → 절차서 3-1-1 로 «한국어 먼저 완성 → 다섯 패턴 점검 → 그다음 영어» 를 강제하고,
+  ROUTINE_COMMON §3 의 A 범주에 «한국어다움»을 넣었다.
